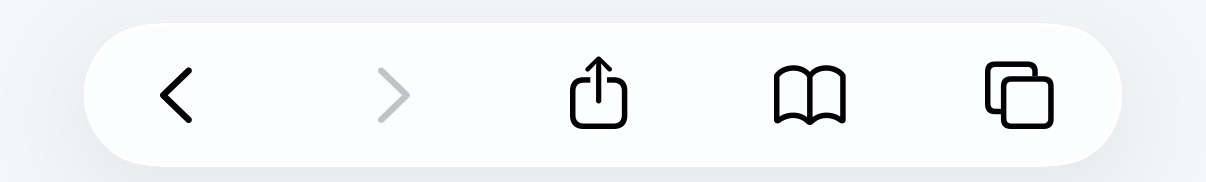
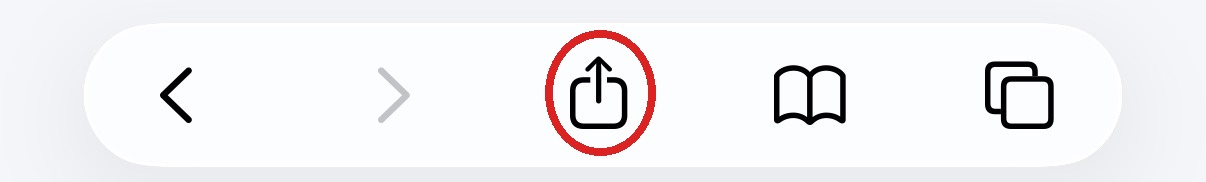
V16

Changed region(s): [[0.4295, 0.1648, 0.5522, 0.8516]]

diff --git a/sw.js b/sw.js
@@ -1,1 +1,1 @@
-const CACHE="dienstplan-v15-current-month-year";const FILES=["./","./index.html","./styles.css","./app.js","./manifest.webmanifest","./icon-180.png","./icon-192.png","./icon-512.png","./safari-teilen-leiste.jpeg"];self.addEventListener("install",e=>e.waitUntil(caches.open(CACHE).then(c=>c.addAll(FILES)).then(()=>self.skipWaiting())));self.addEventListener("activate",e=>e.waitUntil(caches.keys().then(k=>Promise.all(k.filter(x=>x!==CACHE).map(x=>caches.delete(x)))).then(()=>self.clients.claim())));self.addEventListener("fetch",e=>{if(e.request.method!=="GET")return;e.respondWith(fetch(e.request,{cache:"no-store"}).then(r=>{let x=r.clone();caches.open(CACHE).then(c=>c.put(e.request,x));return r}).catch(()=>caches.match(e.request).then(r=>r||caches.match("./index.html"))))});
+const CACHE="dienstplan-v16-install-markers";const FILES=["./","./index.html","./styles.css","./app.js","./manifest.webmanifest","./icon-180.png","./icon-192.png","./icon-512.png","./safari-teilen-leiste.jpeg"];self.addEventListener("install",e=>e.waitUntil(caches.open(CACHE).then(c=>c.addAll(FILES)).then(()=>self.skipWaiting())));self.addEventListener("activate",e=>e.waitUntil(caches.keys().then(k=>Promise.all(k.filter(x=>x!==CACHE).map(x=>caches.delete(x)))).then(()=>self.clients.claim())));self.addEventListener("fetch",e=>{if(e.request.method!=="GET")return;e.respondWith(fetch(e.request,{cache:"no-store"}).then(r=>{let x=r.clone();caches.open(CACHE).then(c=>c.put(e.request,x));return r}).catch(()=>caches.match(e.request).then(r=>r||caches.match("./index.html"))))});

diff --git a/styles.css b/styles.css
@@ -449,3 +449,21 @@ body.installed-app .month-large .weekdays div{padding:3px 1px;font-size:.64rem}b
   background:#fff0a8 !important;
   box-shadow:inset 0 0 0 2px #e0b93c !important;
 }
+
+/* ===== V16: Klickziele iPhone-Installation ===== */
+.ios-menu-row{
+  position:relative;
+  border:3px solid #dc2323 !important;
+  border-radius:18px !important;
+  box-shadow:0 0 0 3px rgba(220,35,35,.10);
+}
+.ios-add-bar b{
+  display:inline-flex;
+  align-items:center;
+  justify-content:center;
+  padding:6px 10px;
+  border:3px solid #dc2323;
+  border-radius:999px;
+  line-height:1;
+  box-shadow:0 0 0 3px rgba(220,35,35,.10);
+}
